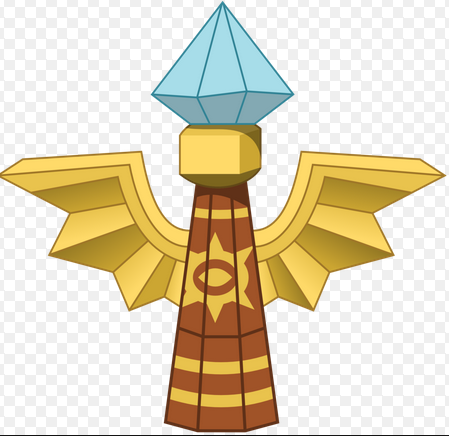
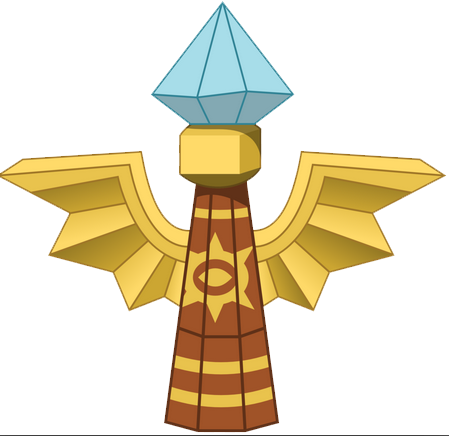
made wards have transparent background, and changed opacity of wards

diff --git a/main.css b/main.css
@@ -99,7 +99,7 @@ label {
 }
 
 .icons>img {
-  opacity: 0.5;
+  opacity: 0.6;
 }
 
 .icons>img:hover {
